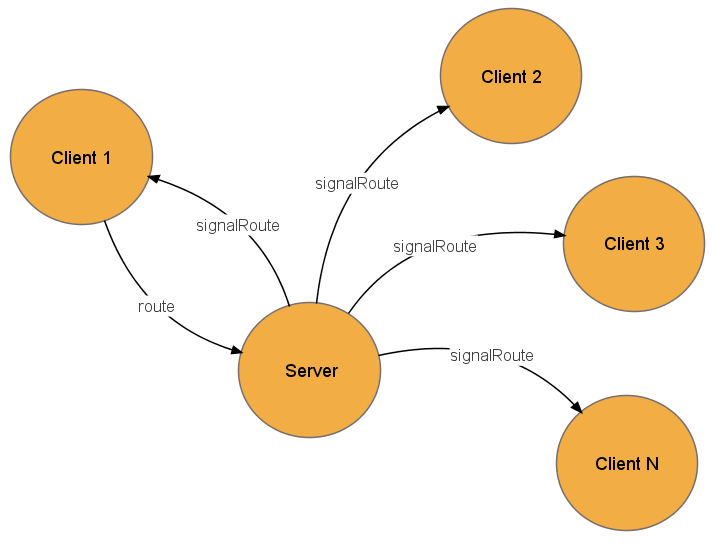
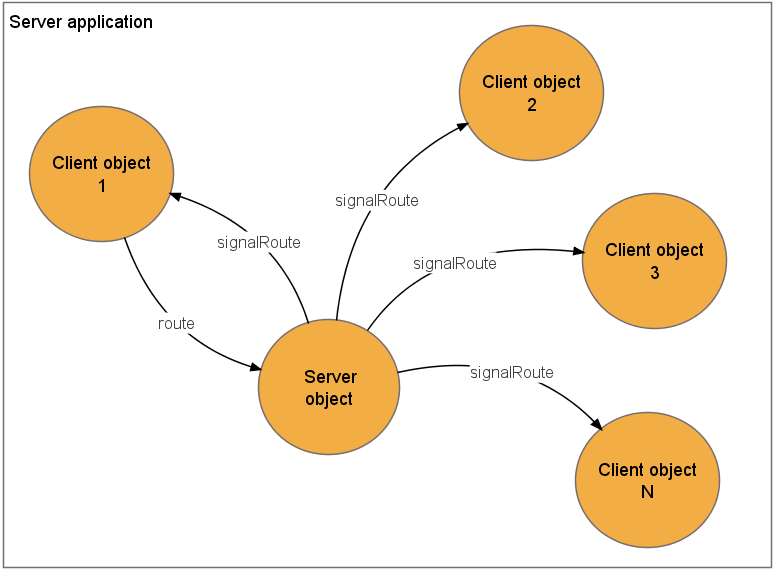
Updated diagram

diff --git a/doc_src_materials/State machines.vue b/doc_src_materials/State machines.vue
@@ -1,7 +1,7 @@
 <!-- Tufts VUE 2.3.1 concept-map (State machines.vue) 2009-08-13 -->
 <!-- Tufts VUE: http://vue.tufts.edu/ -->
 <!-- Do Not Remove: VUE mapping @version(1.1) jar:file:/home/zysoft/VUE/VUE.jar!/tufts/vue/resources/lw_mapping_1_1.xml -->
-<!-- Do Not Remove: Saved date Thu Aug 13 13:20:00 EEST 2009 by zysoft on platform Linux 2.6.28-14-generic in JVM 1.6.0_14-b08 -->
+<!-- Do Not Remove: Saved date Thu Aug 13 13:31:57 EEST 2009 by zysoft on platform Linux 2.6.28-14-generic in JVM 1.6.0_14-b08 -->
 <!-- Do Not Remove: Saving version @(#)VUE: built May 6 2009 at 1148 by vue on Linux 2.4.21-57.EL i386 JVM 1.5.0_06-b05 -->
 <?xml version="1.0" encoding="US-ASCII"?>
 <LW-MAP xmlns:xsi="http://www.w3.org/2001/XMLSchema-instance"
@@ -9,7 +9,7 @@
     label="State machines.vue" x="0.0" y="0.0" width="1.4E-45"
     height="1.4E-45" strokeWidth="0.0" autoSized="false">
     <notes>This map shows two state machines for Open Development Assistant</notes>
-    <resource referenceCreated="1250158800464" size="140656"
+    <resource referenceCreated="1250159517610" size="150695"
         spec="/home/zysoft/Work/Private/O-D-A/doc_src_materials/State machines.vue"
         type="1" xsi:type="URLResource">
         <title>State machines.vue</title>
@@ -57,19 +57,19 @@
         </metadata-list>
         <URIString>http://vue.tufts.edu/rdf/resource/d1b29fad7f00010101d479cf2f3f583a</URIString>
         <richText>&lt;html&gt;
-  &lt;head style="color: #000000" color="#000000"&gt;
+  &lt;head color="#000000" style="color: #000000"&gt;
     &lt;style type="text/css"&gt;
       &lt;!--
-        body { margin-left: 0px; color: #000000; margin-top: 0px; margin-right: 0px; font-family: Arial; margin-bottom: 0px; font-size: 12 }
-        ol { margin-left: 30; margin-top: 6; list-style-position: outside; font-family: Arial; vertical-align: middle; font-size: 12 }
-        p { margin-left: 0; color: #000000; margin-top: 0; margin-right: 0; margin-bottom: 0 }
-        ul { margin-left: 30; margin-top: 6; list-style-position: outside; font-family: Arial; vertical-align: middle; font-size: 12 }
+        body { margin-left: 0px; margin-right: 0px; margin-top: 0px; font-size: 12; color: #000000; margin-bottom: 0px; font-family: Arial }
+        ol { margin-left: 30; margin-top: 6; font-size: 12; vertical-align: middle; list-style-position: outside; font-family: Arial }
+        p { margin-left: 0; margin-right: 0; margin-top: 0; color: #000000; margin-bottom: 0 }
+        ul { margin-left: 30; margin-top: 6; font-size: 12; vertical-align: middle; list-style-position: outside; font-family: Arial }
       --&gt;
     &lt;/style&gt;
     
   &lt;/head&gt;
   &lt;body&gt;
-    &lt;p style="color: #000000" color="#000000"&gt;
+    &lt;p color="#000000" style="color: #000000"&gt;
       This state diagram shows the states and transitions for each client on 
       the server. Each client session has its own state machine which is tuned 
       up as shown on the diagram.
@@ -98,19 +98,19 @@
         </metadata-list>
         <URIString>http://vue.tufts.edu/rdf/resource/d1b29fb07f00010101d479cf19a86a38</URIString>
         <richText>&lt;html&gt;
-  &lt;head style="color: #000000" color="#000000"&gt;
+  &lt;head color="#000000" style="color: #000000"&gt;
     &lt;style type="text/css"&gt;
       &lt;!--
-        body { margin-left: 0px; color: #000000; margin-top: 0px; margin-right: 0px; font-family: Arial; margin-bottom: 0px; font-size: 12 }
-        ol { margin-left: 30; margin-top: 6; list-style-position: outside; font-family: Arial; vertical-align: middle; font-size: 12 }
-        p { margin-left: 0; color: #000000; margin-top: 0; margin-right: 0; margin-bottom: 0 }
-        ul { margin-left: 30; margin-top: 6; list-style-position: outside; font-family: Arial; vertical-align: middle; font-size: 12 }
+        body { margin-left: 0px; margin-right: 0px; margin-top: 0px; font-size: 12; color: #000000; margin-bottom: 0px; font-family: Arial }
+        ol { margin-left: 30; margin-top: 6; font-size: 12; vertical-align: middle; list-style-position: outside; font-family: Arial }
+        p { margin-left: 0; margin-right: 0; margin-top: 0; color: #000000; margin-bottom: 0 }
+        ul { margin-left: 30; margin-top: 6; font-size: 12; vertical-align: middle; list-style-position: outside; font-family: Arial }
       --&gt;
     &lt;/style&gt;
     
   &lt;/head&gt;
   &lt;body&gt;
-    &lt;p style="color: #000000" color="#000000"&gt;
+    &lt;p color="#000000" style="color: #000000"&gt;
       This state diagram shows the states and transitions on the client. 
       Client session has its own state machine which is tuned up as shown on 
       the diagram.
@@ -691,19 +691,19 @@
             </metadata-list>
             <URIString>http://vue.tufts.edu/rdf/resource/d728d8db7f00010100f16568627dd10f</URIString>
             <richText>&lt;html&gt;
-  &lt;head style="color: #404040" color="#404040"&gt;
+  &lt;head color="#404040" style="color: #404040"&gt;
     &lt;style type="text/css"&gt;
       &lt;!--
-        body { margin-left: 0px; color: #404040; margin-top: 0px; margin-right: 0px; font-family: Arial; margin-bottom: 0px; font-size: 11 }
-        ol { margin-left: 30; margin-top: 6; list-style-position: outside; font-family: Arial; vertical-align: middle; font-size: 11 }
-        p { margin-left: 0; color: #404040; margin-top: 0; margin-right: 0; margin-bottom: 0 }
-        ul { margin-left: 30; margin-top: 6; list-style-position: outside; font-family: Arial; vertical-align: middle; font-size: 11 }
+        body { margin-left: 0px; margin-right: 0px; margin-top: 0px; font-size: 11; color: #404040; margin-bottom: 0px; font-family: Arial }
+        ol { margin-left: 30; margin-top: 6; font-size: 11; vertical-align: middle; list-style-position: outside; font-family: Arial }
+        p { margin-left: 0; margin-right: 0; margin-top: 0; color: #404040; margin-bottom: 0 }
+        ul { margin-left: 30; margin-top: 6; font-size: 11; vertical-align: middle; list-style-position: outside; font-family: Arial }
       --&gt;
     &lt;/style&gt;
     
   &lt;/head&gt;
   &lt;body&gt;
-    &lt;p style="color: #404040" color="#404040"&gt;
+    &lt;p color="#404040" style="color: #404040"&gt;
       Legend:
     &lt;/p&gt;
   &lt;/body&gt;
@@ -819,23 +819,23 @@
         </metadata-list>
         <URIString>http://vue.tufts.edu/rdf/resource/d72b50747f00010100f165688a383c0b</URIString>
         <richText>&lt;html&gt;
-  &lt;head style="color: #000000" color="#000000"&gt;
+  &lt;head color="#000000" style="color: #000000"&gt;
     &lt;style type="text/css"&gt;
       &lt;!--
-        body { margin-left: 0px; color: #000000; margin-top: 0px; margin-right: 0px; font-family: Arial; margin-bottom: 0px; font-size: 12 }
-        ol { margin-left: 30; margin-top: 6; list-style-position: outside; font-family: Arial; vertical-align: middle; font-size: 12 }
-        p { margin-left: 0; color: #000000; margin-top: 0; margin-right: 0; margin-bottom: 0 }
-        ul { margin-left: 30; margin-top: 6; list-style-position: outside; font-family: Arial; vertical-align: middle; font-size: 12 }
+        body { margin-left: 0px; margin-right: 0px; margin-top: 0px; font-size: 12; color: #000000; margin-bottom: 0px; font-family: Arial }
+        ol { margin-left: 30; margin-top: 6; font-size: 12; vertical-align: middle; list-style-position: outside; font-family: Arial }
+        p { margin-left: 0; margin-right: 0; margin-top: 0; color: #000000; margin-bottom: 0 }
+        ul { margin-left: 30; margin-top: 6; font-size: 12; vertical-align: middle; list-style-position: outside; font-family: Arial }
       --&gt;
     &lt;/style&gt;
     
   &lt;/head&gt;
   &lt;body&gt;
-    &lt;p style="color: #000000" color="#000000"&gt;
-      Thread gets spawned for non-atom operations only. This means that&lt;font face="Arial" style="font-size:12;"&gt; 
+    &lt;p color="#000000" style="color: #000000"&gt;
+      Thread gets spawned for non-atom operations only. This means that&lt;font style="font-size:12;" face="Arial"&gt; 
       &lt;/font&gt;
     &lt;/p&gt;
-    &lt;p style="color: #000000" color="#000000"&gt;
+    &lt;p color="#000000" style="color: #000000"&gt;
       operation state is a short-term state. Client should never be in this 
       state for a long time.
     &lt;/p&gt;
@@ -1524,19 +1524,19 @@
             </metadata-list>
             <URIString>http://vue.tufts.edu/rdf/resource/dfde0ceb7f00010100f1656802f0cab9</URIString>
             <richText>&lt;html&gt;
-  &lt;head style="color: #404040" color="#404040"&gt;
+  &lt;head color="#404040" style="color: #404040"&gt;
     &lt;style type="text/css"&gt;
       &lt;!--
-        body { margin-left: 0px; color: #404040; margin-top: 0px; margin-right: 0px; font-family: Arial; margin-bottom: 0px; font-size: 11 }
-        ol { margin-left: 30; margin-top: 6; list-style-position: outside; font-family: Arial; vertical-align: middle; font-size: 11 }
-        p { margin-left: 0; color: #404040; margin-top: 0; margin-right: 0; margin-bottom: 0 }
-        ul { margin-left: 30; margin-top: 6; list-style-position: outside; font-family: Arial; vertical-align: middle; font-size: 11 }
+        body { margin-left: 0px; margin-right: 0px; margin-top: 0px; font-size: 11; color: #404040; margin-bottom: 0px; font-family: Arial }
+        ol { margin-left: 30; margin-top: 6; font-size: 11; vertical-align: middle; list-style-position: outside; font-family: Arial }
+        p { margin-left: 0; margin-right: 0; margin-top: 0; color: #404040; margin-bottom: 0 }
+        ul { margin-left: 30; margin-top: 6; font-size: 11; vertical-align: middle; list-style-position: outside; font-family: Arial }
       --&gt;
     &lt;/style&gt;
     
   &lt;/head&gt;
   &lt;body&gt;
-    &lt;p style="color: #404040" color="#404040"&gt;
+    &lt;p color="#404040" style="color: #404040"&gt;
       Legend:
     &lt;/p&gt;
   &lt;/body&gt;
@@ -2783,7 +2783,7 @@
         <ID2 xsi:type="node">94</ID2>
         <ctrlPoint0 x="313.82745" y="1168.2279" xsi:type="point"/>
     </child>
-    <child ID="213" label="Server" layerID="1" x="-447.24728"
+    <child ID="213" label="Server&#xa;object" layerID="1" x="-447.24728"
         y="1923.8206" width="94.200005" height="90.0" strokeWidth="1.0"
         autoSized="false" xsi:type="node">
         <fillColor>#F2AE45</fillColor>
@@ -2802,9 +2802,9 @@
         <URIString>http://vue.tufts.edu/rdf/resource/134571037f00010100ca548b1ae8d9a9</URIString>
         <shape xsi:type="ellipse"/>
     </child>
-    <child ID="214" label="Client 1" layerID="1" x="-599.30615"
-        y="1781.4164" width="94.200005" height="90.0" strokeWidth="1.0"
-        autoSized="false" xsi:type="node">
+    <child ID="214" label="Client object&#xa;1" layerID="1"
+        x="-599.30615" y="1781.4164" width="95.799995" height="90.0"
+        strokeWidth="1.0" autoSized="false" xsi:type="node">
         <fillColor>#F2AE45</fillColor>
         <strokeColor>#776D6D</strokeColor>
         <textColor>#000000</textColor>
@@ -2821,9 +2821,9 @@
         <URIString>http://vue.tufts.edu/rdf/resource/134571047f00010100ca548b06f22415</URIString>
         <shape xsi:type="ellipse"/>
     </child>
-    <child ID="215" label="Client 2" layerID="1" x="-312.88843"
-        y="1727.5117" width="94.200005" height="90.0" strokeWidth="1.0"
-        autoSized="false" xsi:type="node">
+    <child ID="215" label="Client object&#xa;2" layerID="1"
+        x="-312.88843" y="1727.5117" width="95.799995" height="90.0"
+        strokeWidth="1.0" autoSized="false" xsi:type="node">
         <fillColor>#F2AE45</fillColor>
         <strokeColor>#776D6D</strokeColor>
         <textColor>#000000</textColor>
@@ -2840,9 +2840,9 @@
         <URIString>http://vue.tufts.edu/rdf/resource/134571057f00010100ca548b6851e5f9</URIString>
         <shape xsi:type="ellipse"/>
     </child>
-    <child ID="216" label="Client 3" layerID="1" x="-230.82481"
-        y="1839.3435" width="94.200005" height="90.0" strokeWidth="1.0"
-        autoSized="false" xsi:type="node">
+    <child ID="216" label="Client object&#xa;3" layerID="1"
+        x="-230.82481" y="1839.3435" width="95.799995" height="90.0"
+        strokeWidth="1.0" autoSized="false" xsi:type="node">
         <fillColor>#F2AE45</fillColor>
         <strokeColor>#776D6D</strokeColor>
         <textColor>#000000</textColor>
@@ -2859,9 +2859,9 @@
         <URIString>http://vue.tufts.edu/rdf/resource/134571077f00010100ca548ba31dbb5b</URIString>
         <shape xsi:type="ellipse"/>
     </child>
-    <child ID="217" label="Client N" layerID="1" x="-235.65213"
-        y="1985.7705" width="94.200005" height="90.0" strokeWidth="1.0"
-        autoSized="false" xsi:type="node">
+    <child ID="217" label="Client object&#xa;N" layerID="1"
+        x="-235.65213" y="1985.7705" width="95.799995" height="90.0"
+        strokeWidth="1.0" autoSized="false" xsi:type="node">
         <fillColor>#F2AE45</fillColor>
         <strokeColor>#776D6D</strokeColor>
         <textColor>#000000</textColor>
@@ -2878,10 +2878,9 @@
         <URIString>http://vue.tufts.edu/rdf/resource/134571087f00010100ca548be33063de</URIString>
         <shape xsi:type="ellipse"/>
     </child>
-    <child ID="218" label="route" layerID="1" x="-537.5601"
-        y="1868.3252" width="92.730774" height="88.968506"
-        strokeWidth="1.0" autoSized="false" controlCount="1"
-        arrowState="2" xsi:type="link">
+    <child ID="218" label="route" layerID="1" x="-537.00964"
+        y="1868.473" width="92.1803" height="88.82068" strokeWidth="1.0"
+        autoSized="false" controlCount="1" arrowState="2" xsi:type="link">
         <strokeColor>#000000</strokeColor>
         <textColor>#404040</textColor>
         <font>Arial-plain-11</font>
@@ -2895,14 +2894,14 @@
             </metadata>
         </metadata-list>
         <URIString>http://vue.tufts.edu/rdf/resource/134571087f00010100ca548be74b0786</URIString>
-        <point1 x="-537.0601" y="1868.8252"/>
+        <point1 x="-536.50964" y="1868.973"/>
         <point2 x="-445.32935" y="1956.7937"/>
         <ID1 xsi:type="node">214</ID1>
         <ID2 xsi:type="node">213</ID2>
         <ctrlPoint0 x="-511.97897" y="1939.0525" xsi:type="point"/>
     </child>
-    <child ID="219" label="signalRoute" layerID="1" x="-396.67273"
-        y="1792.1238" width="89.46057" height="132.66797"
+    <child ID="219" label="signalRoute" layerID="1" x="-396.1451"
+        y="1792.3182" width="89.043396" height="132.47351"
         strokeWidth="1.0" autoSized="false" controlCount="1"
         arrowState="2" xsi:type="link">
         <strokeColor>#000000</strokeColor>
@@ -2919,13 +2918,13 @@
         </metadata-list>
         <URIString>http://vue.tufts.edu/rdf/resource/134571097f00010100ca548be0640535</URIString>
         <point1 x="-395.25684" y="1924.2917"/>
-        <point2 x="-307.71216" y="1792.6238"/>
+        <point2 x="-307.6017" y="1792.8182"/>
         <ID1 xsi:type="node">213</ID1>
         <ID2 xsi:type="node">215</ID2>
         <ctrlPoint0 x="-384.86093" y="1829.6344" xsi:type="point"/>
     </child>
     <child ID="220" label="signalRoute" layerID="1" x="-374.8829"
-        y="1876.3998" width="145.15128" height="55.31067"
+        y="1876.3501" width="145.1581" height="55.36035"
         strokeWidth="1.0" autoSized="false" controlCount="1"
         arrowState="2" xsi:type="link">
         <strokeColor>#000000</strokeColor>
@@ -2942,13 +2941,13 @@
         </metadata-list>
         <URIString>http://vue.tufts.edu/rdf/resource/1345710c7f00010100ca548b4adcd35a</URIString>
         <point1 x="-374.3829" y="1931.2104"/>
-        <point2 x="-230.23163" y="1878.7218"/>
+        <point2 x="-230.22481" y="1878.6569"/>
         <ID1 xsi:type="node">213</ID1>
         <ID2 xsi:type="node">216</ID2>
         <ctrlPoint0 x="-330.15192" y="1866.6434" xsi:type="point"/>
     </child>
     <child ID="221" label="signalRoute" layerID="1" x="-354.86322"
-        y="1951.7654" width="136.35983" height="45.435913"
+        y="1951.7078" width="136.65207" height="45.263184"
         strokeWidth="1.0" autoSized="false" controlCount="1"
         arrowState="2" xsi:type="link">
         <strokeColor>#000000</strokeColor>
@@ -2965,13 +2964,13 @@
         </metadata-list>
         <URIString>http://vue.tufts.edu/rdf/resource/1345710d7f00010100ca548bd35c9faf</URIString>
         <point1 x="-354.36322" y="1958.6462"/>
-        <point2 x="-219.00339" y="1996.7013"/>
+        <point2 x="-218.71115" y="1996.471"/>
         <ID1 xsi:type="node">213</ID1>
         <ID2 xsi:type="node">217</ID2>
         <ctrlPoint0 x="-269.8111" y="1939.8569" xsi:type="point"/>
     </child>
-    <child ID="222" label="signalRoute" layerID="1" x="-507.87704"
-        y="1839.0297" width="94.779785" height="87.37891"
+    <child ID="222" label="signalRoute" layerID="1" x="-506.41"
+        y="1839.3153" width="93.312744" height="87.09326"
         strokeWidth="1.0" autoSized="false" controlCount="1"
         arrowState="2" xsi:type="link">
         <strokeColor>#000000</strokeColor>
@@ -2988,10 +2987,66 @@
         </metadata-list>
         <URIString>http://vue.tufts.edu/rdf/resource/1345710e7f00010100ca548b223cb103</URIString>
         <point1 x="-413.59726" y="1925.9086"/>
-        <point2 x="-507.37704" y="1839.5297"/>
+        <point2 x="-505.91" y="1839.8153"/>
         <ID1 xsi:type="node">213</ID1>
         <ID2 xsi:type="node">214</ID2>
         <ctrlPoint0 x="-433.93814" y="1861.0116" xsi:type="point"/>
+    </child>
+    <child ID="223" layerID="1" x="-616.78394" y="1712.556"
+        width="511.69635" height="376.2628" strokeWidth="1.0"
+        autoSized="false" xsi:type="node">
+        <fillColor>#00000000</fillColor>
+        <strokeColor>#776D6D</strokeColor>
+        <textColor>#000000</textColor>
+        <font>Arial-plain-12</font>
+        <metadata-list category-list-size="1" other-list-size="0"
+            ontology-list-size="0" RCategoryListSize="0">
+            <ontology-list-string></ontology-list-string>
+            <metadata xsi:type="vue-metadata-element">
+                <value></value>
+                <key>http://vue.tufts.edu/vue.rdfs#none</key>
+                <type>1</type>
+            </metadata>
+        </metadata-list>
+        <URIString>http://vue.tufts.edu/rdf/resource/1350607a7f000101004fe94cce570197</URIString>
+        <shape xsi:type="rectangle"/>
+    </child>
+    <child ID="224" label="Server application" layerID="1" x="-613.0951"
+        y="1717.299" width="149.0" height="17.0" strokeWidth="0.0"
+        autoSized="false" xsi:type="text">
+        <strokeColor>#404040</strokeColor>
+        <textColor>#000000</textColor>
+        <font>SansSerif-plain-14</font>
+        <metadata-list category-list-size="1" other-list-size="0"
+            ontology-list-size="0" RCategoryListSize="0">
+            <ontology-list-string></ontology-list-string>
+            <metadata xsi:type="vue-metadata-element">
+                <value></value>
+                <key>http://vue.tufts.edu/vue.rdfs#none</key>
+                <type>1</type>
+            </metadata>
+        </metadata-list>
+        <URIString>http://vue.tufts.edu/rdf/resource/1350607b7f000101004fe94cfe68946f</URIString>
+        <richText>&lt;html&gt;
+  &lt;head color="#000000" style="color: #000000"&gt;
+    &lt;style type="text/css"&gt;
+      &lt;!--
+        body { margin-left: 0px; margin-right: 0px; margin-top: 0px; font-size: 12; color: #000000; margin-bottom: 0px; font-family: Arial }
+        ol { margin-left: 30; margin-top: 6; font-size: 12; vertical-align: middle; list-style-position: outside; font-family: Arial }
+        p { margin-left: 0; margin-right: 0; margin-top: 0; color: #000000; margin-bottom: 0 }
+        ul { margin-left: 30; margin-top: 6; font-size: 12; vertical-align: middle; list-style-position: outside; font-family: Arial }
+      --&gt;
+    &lt;/style&gt;
+    
+  &lt;/head&gt;
+  &lt;body&gt;
+    &lt;p color="#000000" style="color: #000000"&gt;
+      Server application
+    &lt;/p&gt;
+  &lt;/body&gt;
+&lt;/html&gt;
+</richText>
+        <label>Server application</label>
     </child>
     <layer ID="1" label="Layer 1" x="0.0" y="0.0" width="1.4E-45"
         height="1.4E-45" strokeWidth="0.0" autoSized="false">
@@ -3001,8 +3056,8 @@
         </metadata-list>
         <URIString>http://vue.tufts.edu/rdf/resource/d1a3fd5e7f00010101d479cf7c37b8b4</URIString>
     </layer>
-    <userZoom>1.2429395695402612</userZoom>
-    <userOrigin x="-860.3589" y="-23.874943"/>
+    <userZoom>1.8976099516165252</userZoom>
+    <userOrigin x="-1283.4153" y="-32.236454"/>
     <presentationBackground>#202020</presentationBackground>
     <PathwayList currentPathway="0" revealerIndex="-1">
         <pathway ID="0" label="Untitled Pathway" x="0.0" y="0.0"
